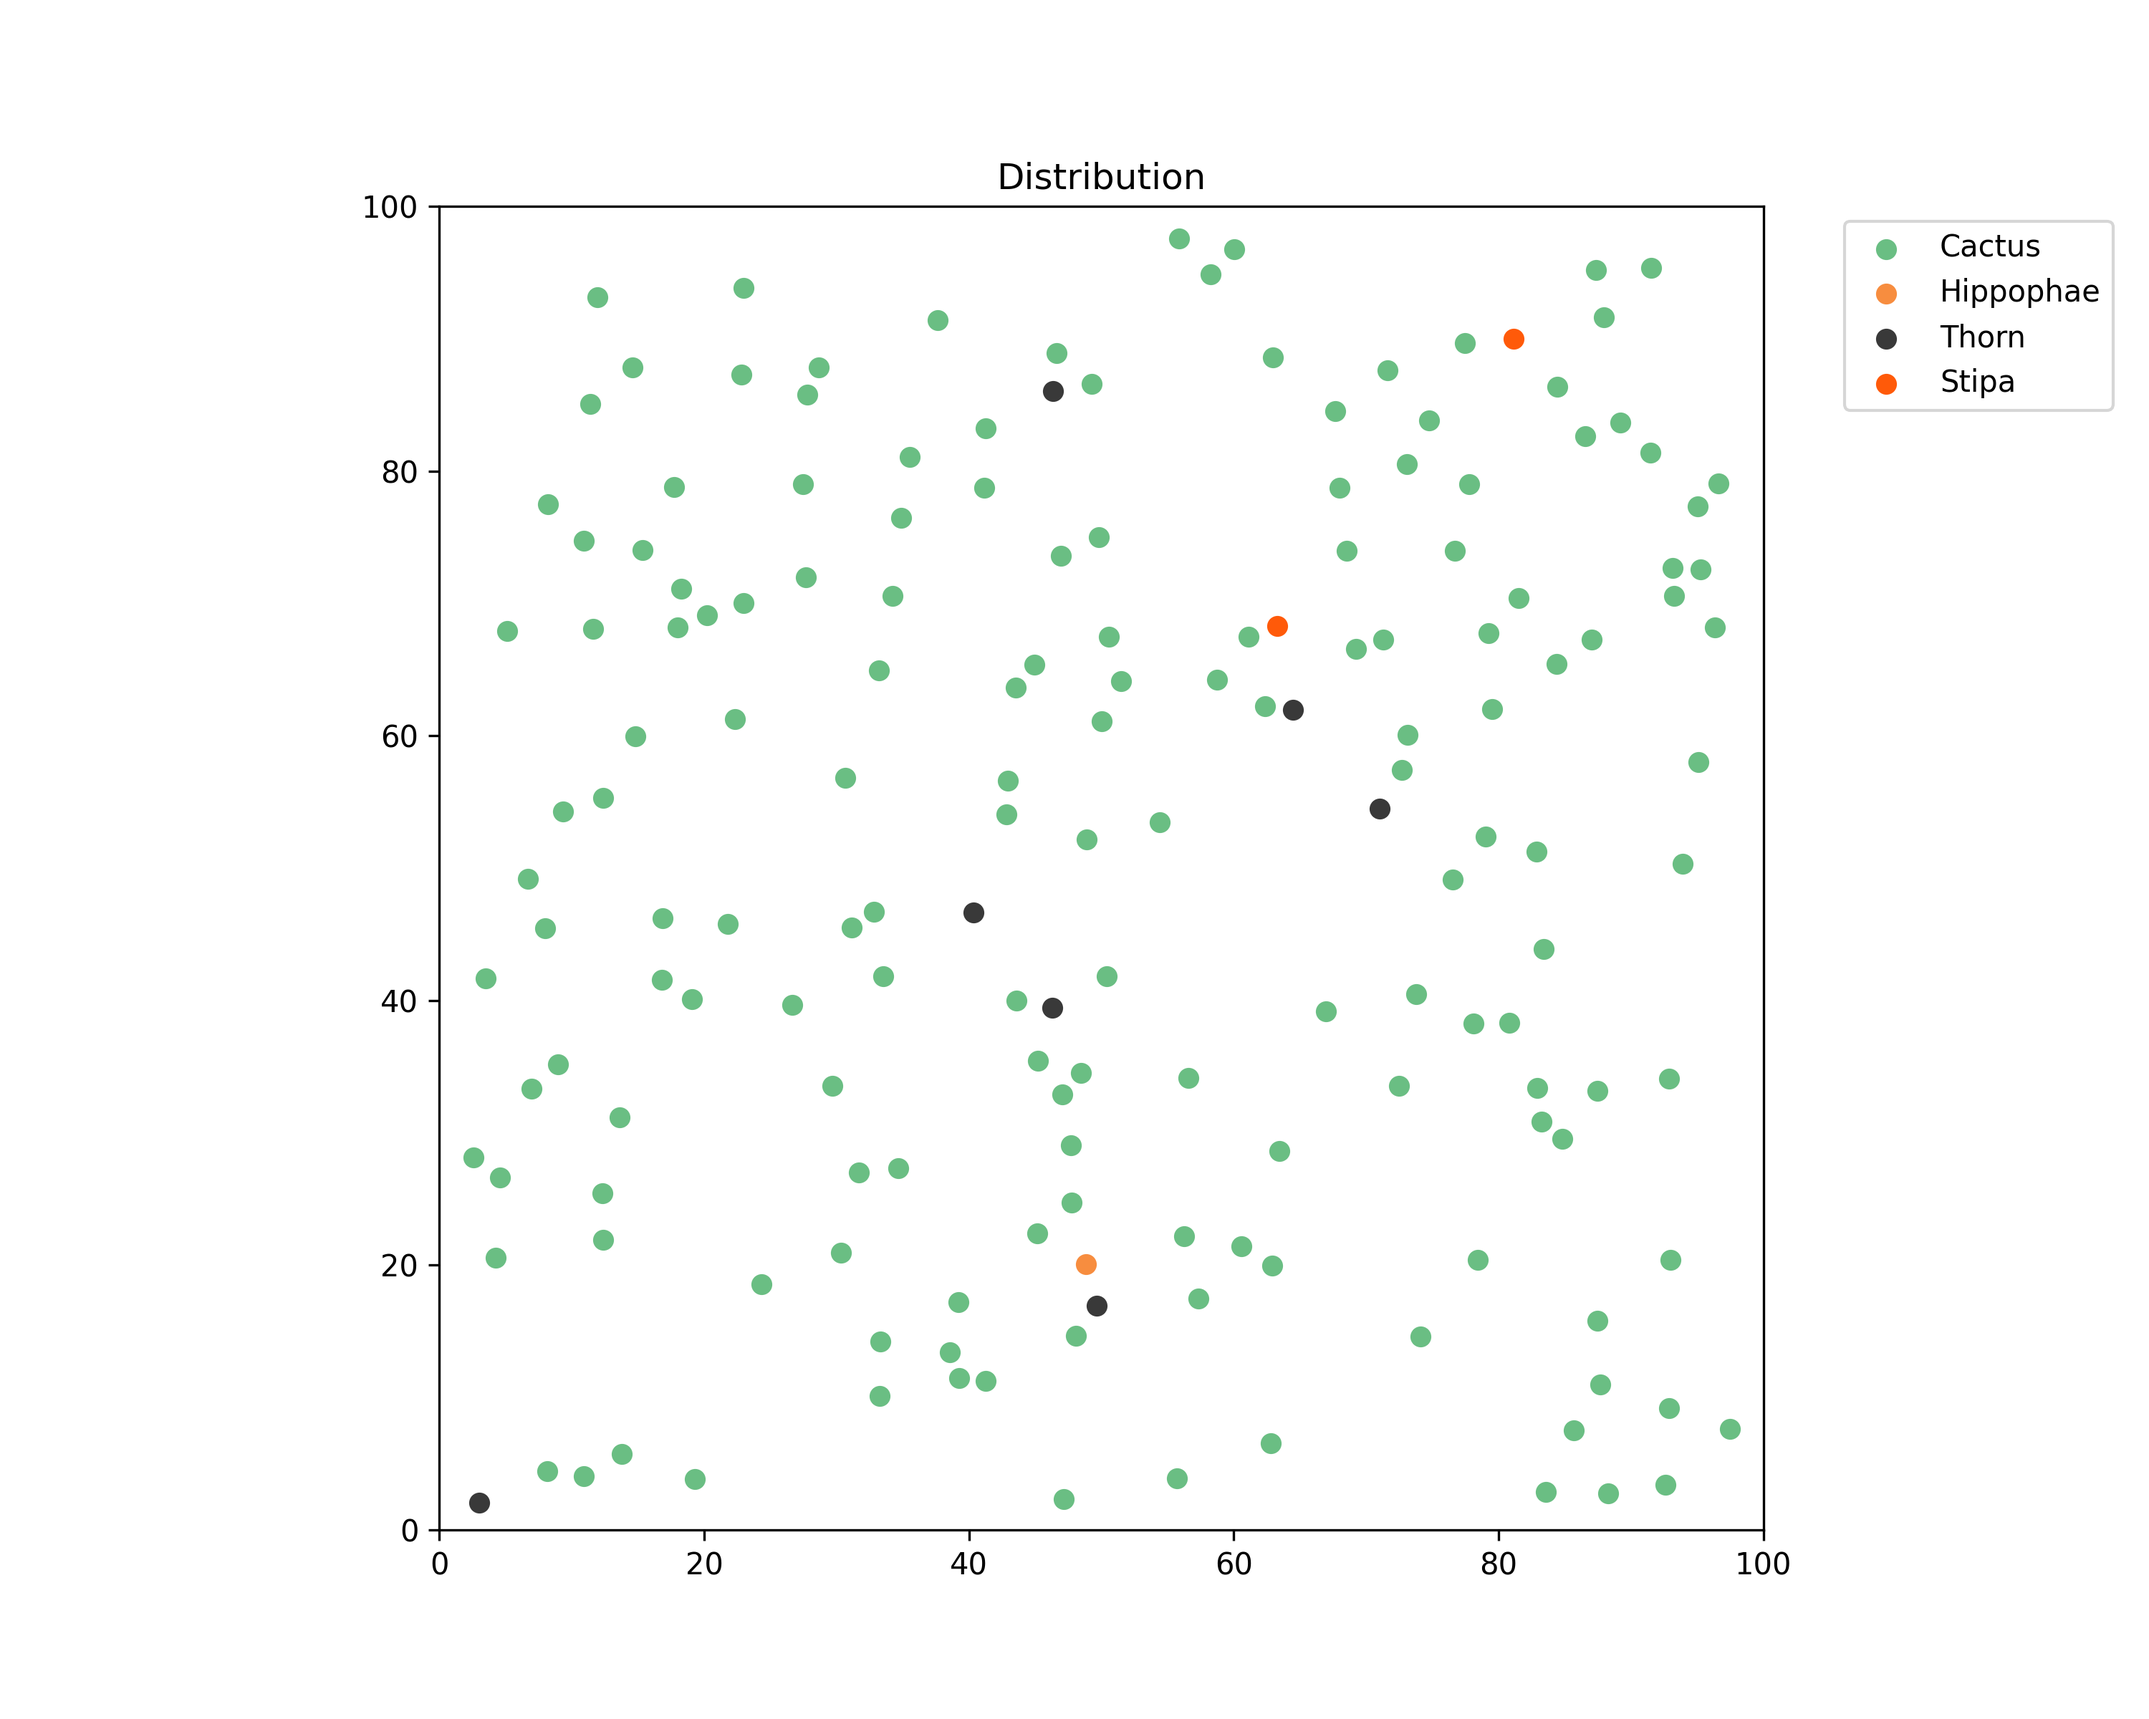
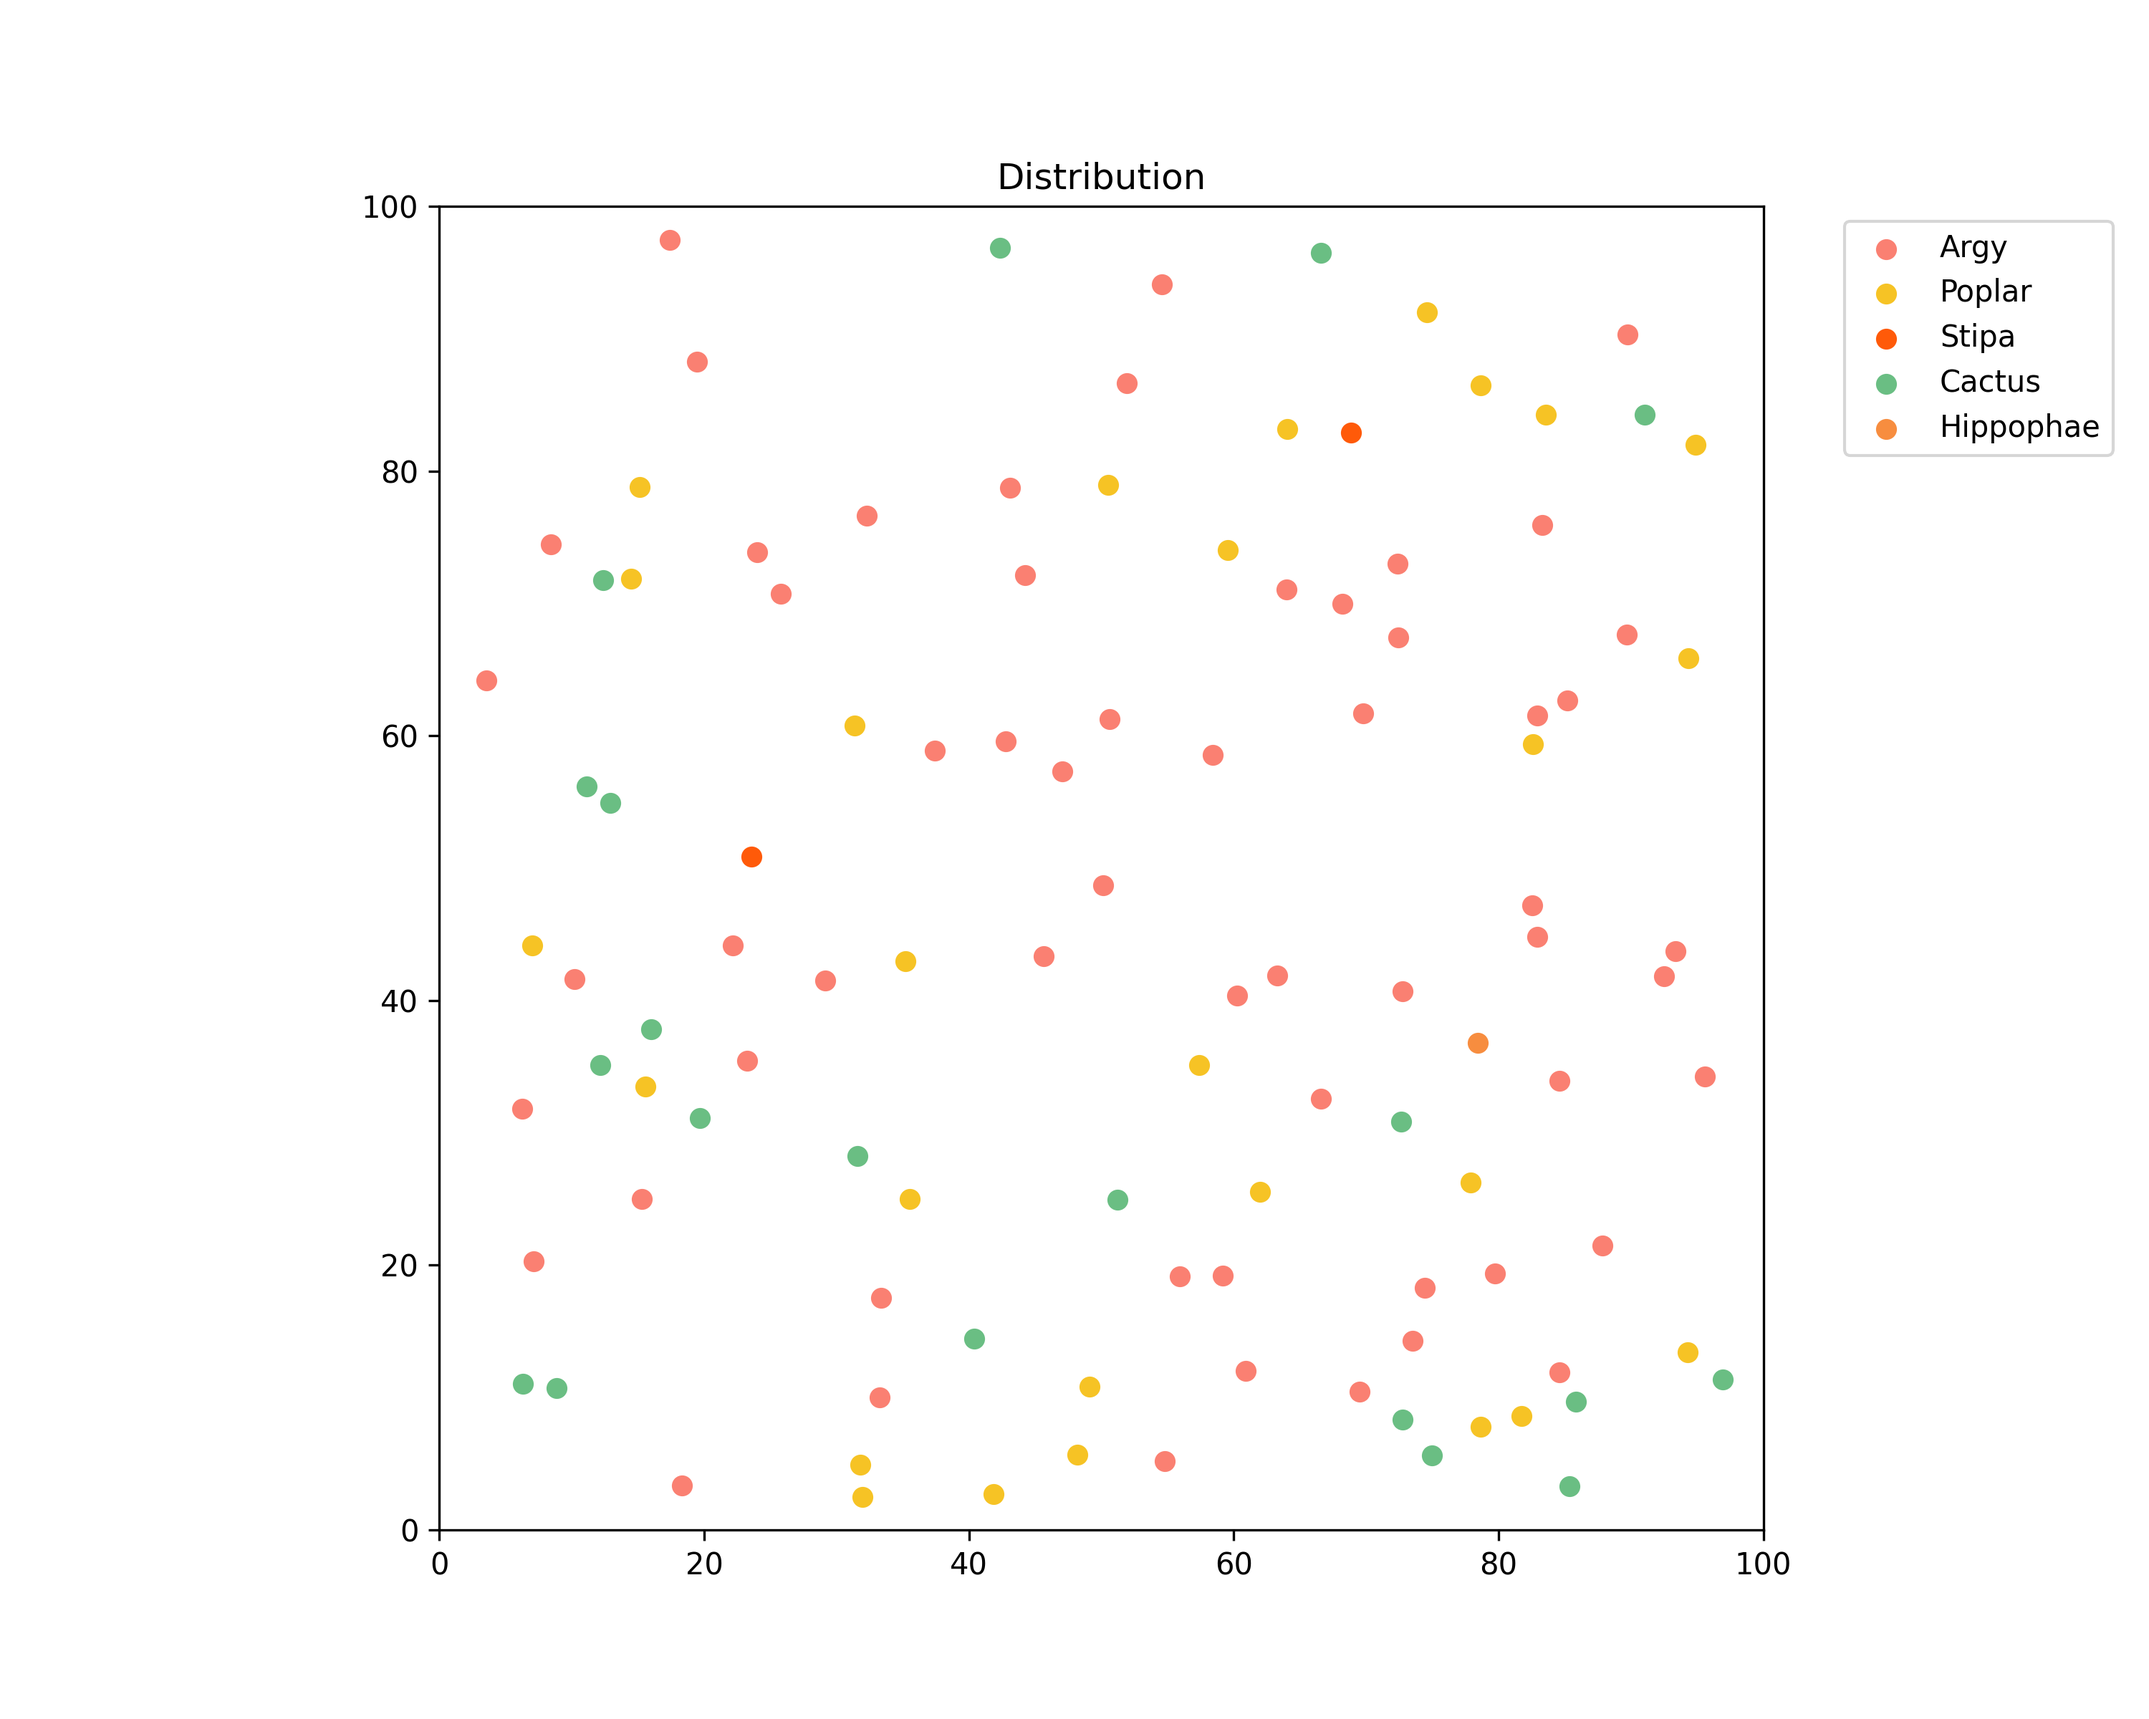
te

diff --git a/main.py b/main.py
@@ -12,10 +12,11 @@ import pickle
 
 
 temperature,humidity,_ = simulate_tropical_savanna_climate_daily()
+
 total=300
 plant_list = [1]*int(total*0.7) + [2]*int(total*0.1) + [3]*int(total*0.1) + [4]*int(total*0.1)
 
-world=init_sp(plant_list)
+world=init(total)
 tik = 0
 
 temp_hp_loss=0
@@ -41,12 +42,12 @@ def plants_iteration():
 def sec_itr(section:Section,climate:Climate):
     section.sil_hum=SoilHumidityIteration(section=section,climate=climate)
 
-world.vis(fname="start",collection=["Cactus","Hippophae","Thorn","Stipa"])
+world.vis(fname="start",collection=["Cactus","Hippophae","Poplar","Stipa","Argy"])
 year = 1
 log = []
 while 1:
 
-    climate = Climate(temperature[tik],humidity[tik])
+    climate = Climate(temperature[tik%360],humidity[tik%360])
     plants_iteration()
     for section in world.sections:
         sec_itr(section,climate)
@@ -56,36 +57,36 @@ while 1:
     tik = tik + 1
 
     if tik == 100:
-        world.vis(fname="100",collection=["Cactus","Hippophae","Thorn","Stipa"])
+        world.vis(fname="100",collection=["Cactus","Hippophae","Poplar","Stipa","Argy"])
         with open('possibility.txt', 'w') as file:
             file.write(str(len(world.plants)/total)+" at day 100\n")
 
     if tik == 200:
-        world.vis(fname="200",collection=["Cactus","Hippophae","Thorn","Stipa"])
+        world.vis(fname="200",collection=["Cactus","Hippophae","Poplar","Stipa","Argy"])
         with open('possibility.txt', 'a') as file:
             file.write(str(len(world.plants)/total)+" at day 200\n")
 
     log.append(len(world.plants)/total)
-    if tik > 300 or len(world.plants)==0 :
+    if tik > 800 or len(world.plants)==0 :
         break
 
 
-world.vis(fname="final",collection=["Cactus","Hippophae","Thorn","Stipa"])
+world.vis(fname="final",collection=["Cactus","Hippophae","Poplar","Stipa","Argy"])
 with open('possibility.txt', 'a') as file:
     file.write(str(len(world.plants)/total)+" at day 300\n")
 
-x_ax = range(0,301)
+x_ax = range(0,len(log))
 
 plt.figure(dpi=300).set_size_inches(8,6)
 plt.plot(x_ax,log)
 plt.xlabel("day")
 plt.ylabel("survival possibility")
 plt.ylim(0,1.05)
-plt.xlim(0,300)
+#plt.xlim(0,300)
 plt.savefig("log.png")
 
-with open('data1.pkl', 'ab') as f:
-    pickle.dump(log, f)
+#with open('data5.pkl', 'ab') as f:
+ #   pickle.dump(log, f)
 
 
 

diff --git a/init.py b/init.py
@@ -39,9 +39,11 @@ def gen_plant(n,point,r=3):
     elif n==2:
         plant=Hippophae(x,y)
     elif n==3:
-        plant=Thorn(x,y)
+        plant=Poplar(x,y)
     elif n==4:
         plant=Stipa(x,y)
+    elif n==5:
+        plant=Argy(x,y)
     else:
         plant=Cactus(x,y)
     
@@ -76,7 +78,7 @@ def init(n):
     points = generate_points(n)  # generate 50 random plants
     plants=[]
     for point in points:
-        idx = np.random.randint(1,5)
+        idx = np.random.randint(1,6)
         plant = gen_plant(idx,point,2)
         plants.append(plant)
     plant_tree = kdtree.create(plants)  #kdtree 数据结构存储plant信息，便于计算相隔距离
